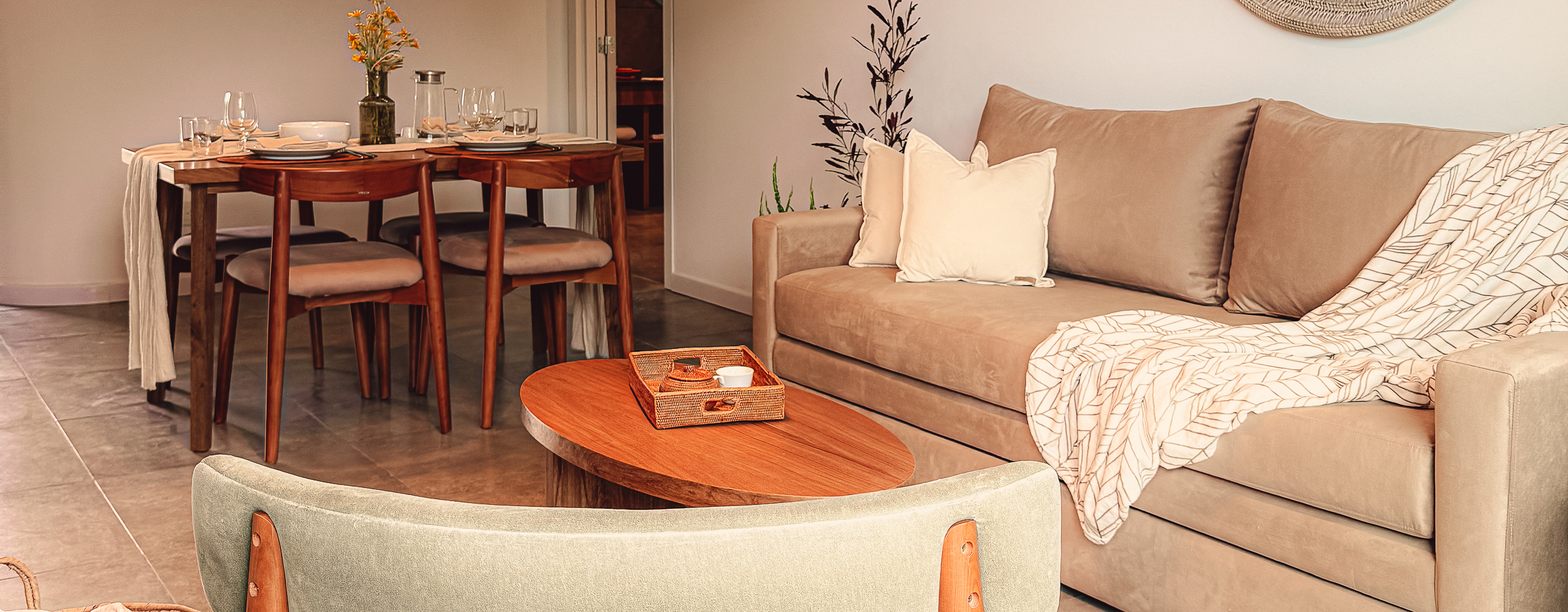
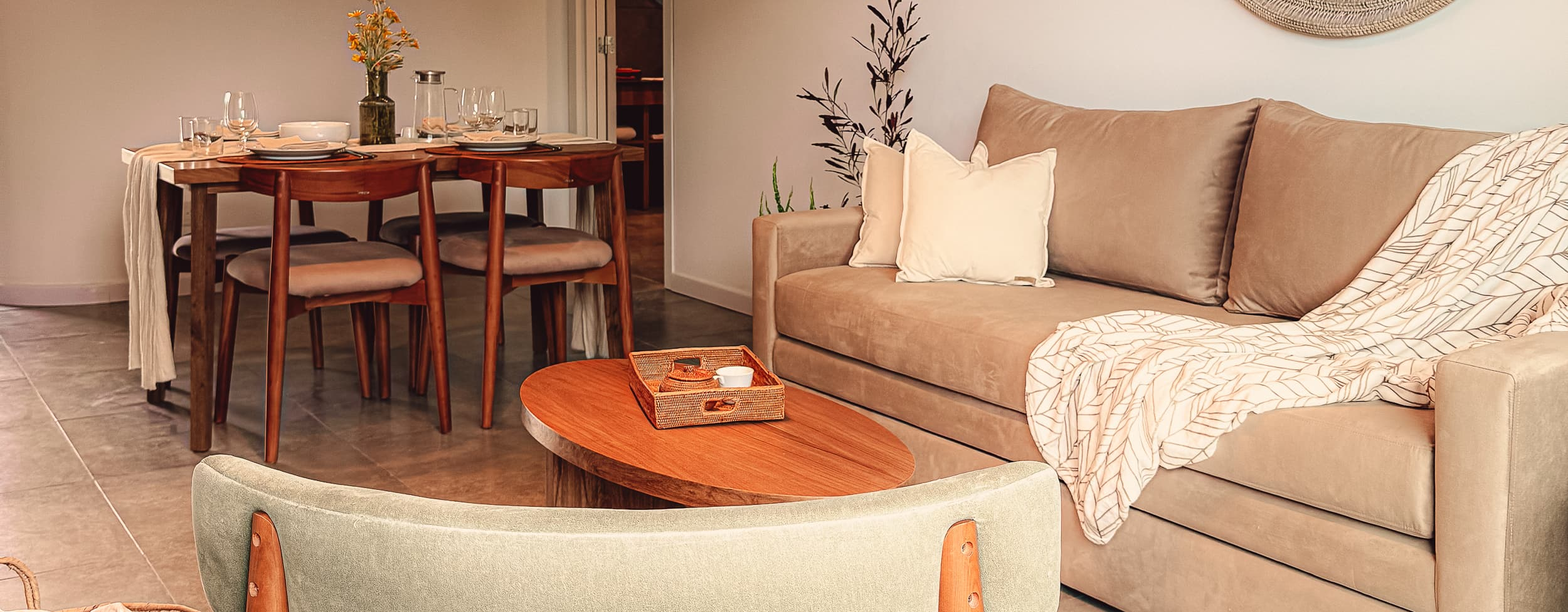
optimización de fotografias a webp

Changed region(s): [[0.4056, 0.5527, 0.4992, 0.7062]]

diff --git a/src/components/Pages/GalleryPage.jsx b/src/components/Pages/GalleryPage.jsx
@@ -7,92 +7,92 @@ import { pageTitle } from "../../helpers/PageTitle";
 const galleryData = [
   // Todas las imágenes deben existir en /public/images con tamaño 832x930
   {
-    imgUrl: "/images/gallery_01.jpg",
+    imgUrl: "/images/gallery_01.webp",
     title: "Suites",
     category: "Pileta",
   },
   {
-    imgUrl: "/images/gallery_02.jpg",
+    imgUrl: "/images/gallery_02.webp",
     title: "Suites",
     category: "Cowork",
   },
   {
-    imgUrl: "/images/gallery_03.jpg",
+    imgUrl: "/images/gallery_03.webp",
     title: "Suites",
     category: "Spa",
   },
   {
-    imgUrl: "/images/gallery_04.jpg",
+    imgUrl: "/images/gallery_04.webp",
     title: "Suites",
     category: "Habitaciones",
   },
   {
-    imgUrl: "/images/gallery_05.jpg",
+    imgUrl: "/images/gallery_05.webp",
     title: "Suites",
     category: "Pileta",
   },
   {
-    imgUrl: "/images/gallery_06.jpg",
+    imgUrl: "/images/gallery_06.webp",
     title: "Suites",
     category: "Espacios Verdes",
   },
   {
-    imgUrl: "/images/gallery_07.jpg",
+    imgUrl: "/images/gallery_07.webp",
     title: "Suites",
     category: "Cowork",
   },
   {
-    imgUrl: "/images/gallery_08.jpg",
+    imgUrl: "/images/gallery_08.webp",
     title: "Suites",
     category: "Spa",
   },
   {
-    imgUrl: "/images/gallery_09.jpg",
+    imgUrl: "/images/gallery_09.webp",
     title: "Suites",
     category: "Habitaciones",
   },
   {
-    imgUrl: "/images/gallery_10.jpg",
+    imgUrl: "/images/gallery_10.webp",
     title: "Suites",
     category: "Pileta",
   },
   {
-    imgUrl: "/images/gallery_11.jpg",
+    imgUrl: "/images/gallery_11.webp",
     title: "Suites",
     category: "Espacios Verdes",
   },
   {
-    imgUrl: "/images/gallery_12.jpg",
+    imgUrl: "/images/gallery_12.webp",
     title: "Suites",
     category: "Cowork",
   },
   {
-    imgUrl: "/images/gallery_13.jpg",
+    imgUrl: "/images/gallery_13.webp",
     title: "Suites",
     category: "Spa",
   },
   {
-    imgUrl: "/images/gallery_14.jpg",
+    imgUrl: "/images/gallery_14.webp",
     title: "Suites",
     category: "Habitaciones",
   },
   {
-    imgUrl: "/images/gallery_15.jpg",
+    imgUrl: "/images/gallery_15.webp",
     title: "Suites",
     category: "Pileta",
   },
   {
-    imgUrl: "/images/gallery_16.jpg",
+    imgUrl: "/images/gallery_16.webp",
     title: "Balcones Suites",
     category: "Espacios Verdes",
   },
   {
-    imgUrl: "/images/gallery_17.jpg",
+    imgUrl: "/images/gallery_17.webp",
     title: "Espacios de trabajo y relax",
     category: "Cowork",
   },
   {
-    imgUrl: "/images/gallery_18.jpg",
+    imgUrl: "/images/gallery_18.webp",
     title: "Spa & Bienestar",
     category: "Spa",
   },
@@ -126,7 +126,7 @@ export default function GalleryPage() {
     <>
       <PageHeadingSection
         title="Galería Grindelia"
-        bgImgUrl="/images/page_heading_gallery_bg.jpg"
+        bgImgUrl="/images/page_heading_gallery_bg.webp"
       />
       <Section
         topSpaceLg="141"

diff --git a/src/components/Pages/ContactPage.jsx b/src/components/Pages/ContactPage.jsx
@@ -10,17 +10,18 @@ const contactData = [
     iconUrl: "/images/icons/contact_icon_1.svg",
     title: "Dirección",
     subTitle:
-      "Punta del Este y calle 28, B7165 Mar Azul, Provincia de Buenos Aires",
+      "Calle 28 385 (Esq. Copacabana), B7165 Mar Azul, Provincia de Buenos Aires",
   },
   {
     iconUrl: "/images/icons/contact_icon_2.svg",
     title: "Email",
-    subTitle: '<a href="mailto:info@grindelia.com">info@grindelia.com</a>',
+    subTitle:
+      '<a href="mailto:reservas@grindelia.com">reservas@grindelia.com</a>',
   },
   {
     iconUrl: "/images/icons/contact_icon_3.svg",
     title: "Reservas y consultas",
-    subTitle: '<a href="tel:+214544512009">+21 454 451 2009</a>',
+    subTitle: '<a href="tel:+54 9 2255 505626">+54 9 2255 505626</a>',
   },
 ];
 
@@ -32,8 +33,8 @@ export default function ContactPage() {
   return (
     <>
       <PageHeadingSection
-        title="Contact us"
-        bgImgUrl="/images/Page_heading_bg_gallery.webp"
+        title="Contacto"
+        bgImgUrl="/images/Page_heading_bg_contact.webp"
       />
       <Section
         topSpaceLg="150"
@@ -42,7 +43,7 @@ export default function ContactPage() {
         bottomSpaceMd="80"
       >
         <ContactSection3
-          sectionTitle="Contactactate con Grindelia Eco Apart"
+          sectionTitle="Contactate con Grindelia Eco Apart"
           sectionSubTitle="CONTACTO"
           sectionDescription="Comunícate con nosotros por teléfono, correo electrónico o mediante nuestro formulario online. Esperamos tu consulta y queremos ayudarte a planificar una experiencia inolvidable en Grindelia Resort."
           data={contactData}

diff --git a/src/components/Pages/Room3aPage.jsx b/src/components/Pages/Room3aPage.jsx
@@ -93,12 +93,12 @@ const roomData = [
 ];
 
 const galleryData = [
-  { imgUrlLg: "/images/room_lg_7.jpg", imgUrlSm: "/images/room_sm_7.jpg" },
-  { imgUrlLg: "/images/room_lg_8.jpg", imgUrlSm: "/images/room_sm_8.jpg" },
-  { imgUrlLg: "/images/room_lg_9.jpg", imgUrlSm: "/images/room_sm_9.jpg" },
-  { imgUrlLg: "/images/room_lg_10.jpg", imgUrlSm: "/images/room_sm_10.jpg" },
-  { imgUrlLg: "/images/room_lg_11.jpg", imgUrlSm: "/images/room_sm_11.jpg" },
-  { imgUrlLg: "/images/room_lg_12.jpg", imgUrlSm: "/images/room_sm_12.jpg" },
+  { imgUrlLg: "/images/room_lg_7.webp", imgUrlSm: "/images/room_sm_7.webp" },
+  { imgUrlLg: "/images/room_lg_8.webp", imgUrlSm: "/images/room_sm_8.webp" },
+  { imgUrlLg: "/images/room_lg_9.webp", imgUrlSm: "/images/room_sm_9.webp" },
+  { imgUrlLg: "/images/room_lg_10.webp", imgUrlSm: "/images/room_sm_10.webp" },
+  { imgUrlLg: "/images/room_lg_11.webp", imgUrlSm: "/images/room_sm_11.webp" },
+  { imgUrlLg: "/images/room_lg_12.webp", imgUrlSm: "/images/room_sm_12.webp" },
 ];
 
 export default function RoomDetailsPageV2() {

diff --git a/src/components/Pages/Room2aPage.jsx b/src/components/Pages/Room2aPage.jsx
@@ -84,12 +84,12 @@ const roomData = [
 ];
 
 const galleryData = [
-  { imgUrlLg: "/images/room_lg_3.jpg", imgUrlSm: "/images/room_sm_3.jpg" },
-  { imgUrlLg: "/images/room_lg_2.jpg", imgUrlSm: "/images/room_sm_2.jpg" },
-  { imgUrlLg: "/images/room_lg_1.jpg", imgUrlSm: "/images/room_sm_1.jpg" },
-  { imgUrlLg: "/images/room_lg_4.jpg", imgUrlSm: "/images/room_sm_4.jpg" },
-  { imgUrlLg: "/images/room_lg_5.jpg", imgUrlSm: "/images/room_sm_5.jpg" },
-  { imgUrlLg: "/images/room_lg_6.jpg", imgUrlSm: "/images/room_sm_6.jpg" },
+  { imgUrlLg: "/images/room_lg_3.webp", imgUrlSm: "/images/room_sm_3.webp" },
+  { imgUrlLg: "/images/room_lg_2.webp", imgUrlSm: "/images/room_sm_2.webp" },
+  { imgUrlLg: "/images/room_lg_1.webp", imgUrlSm: "/images/room_sm_1.webp" },
+  { imgUrlLg: "/images/room_lg_4.webp", imgUrlSm: "/images/room_sm_4.webp" },
+  { imgUrlLg: "/images/room_lg_5.webp", imgUrlSm: "/images/room_sm_5.webp" },
+  { imgUrlLg: "/images/room_lg_6.webp", imgUrlSm: "/images/room_sm_6.webp" },
 ];
 
 export default function RoomDetailsPageV2() {

diff --git a/src/components/Footer/FooterStyle2.jsx b/src/components/Footer/FooterStyle2.jsx
@@ -17,11 +17,11 @@ const menuData2 = [{ title: "Política de Privacidad y Cookies", href: "/" }];
 const contactInfoData = {
   mobile: 'Call : <a href="tel:+54 9 2255505626">+54 9 2255 505626</a>',
   email:
-    'Email : <a href="mailto:info@grindela.com.ar">info@grindela.com.ar</a>',
+    'Email : <a href="mailto:reservas@grindela.com.ar">reservas@grindela.com.ar</a>',
 };
 const contactInfoData2 = {
   address:
-    "Calle 28 y Punta del Este, Mar de las Pampas, Buenos Aires, Argentina",
+    "Calle 28 385 (Esq. Copacabana), Mar de las Pampas, Buenos Aires, Argentina",
 };
 
 export default function FooterStyle2() {

diff --git a/src/components/Pages/RoomsPage.jsx b/src/components/Pages/RoomsPage.jsx
@@ -28,7 +28,7 @@ export default function RoomsPage() {
     <>
       <PageHeadingSection
         title="Nuestras Habitaciones"
-        bgImgUrl="/images/page_heading_bg_rooms.jpg"
+        bgImgUrl="/images/page_heading_bg_rooms.webp"
       />
       <Section
         topSpaceLg="141"

diff --git a/src/components/Pages/ServicesPage.jsx b/src/components/Pages/ServicesPage.jsx
@@ -94,7 +94,7 @@ export default function ServicesPage() {
     <>
       <PageHeadingSection
         title="Servicios"
-        bgImgUrl="/images/page_heading_bg_services.jpeg"
+        bgImgUrl="/images/page_heading_bg_services.webp"
       />
       <Section
         topSpaceLg="141"
